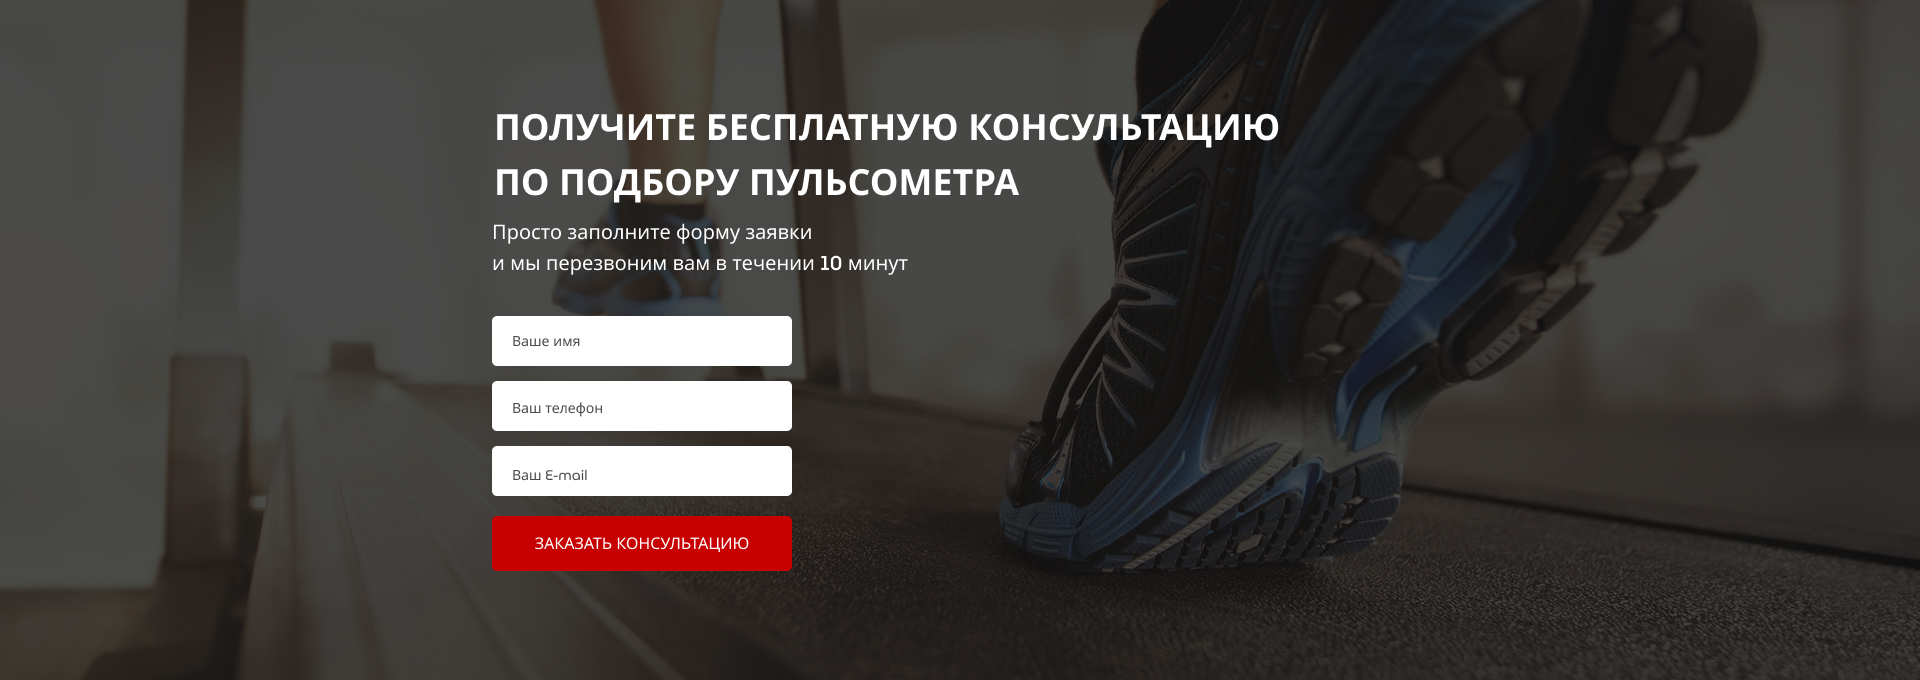
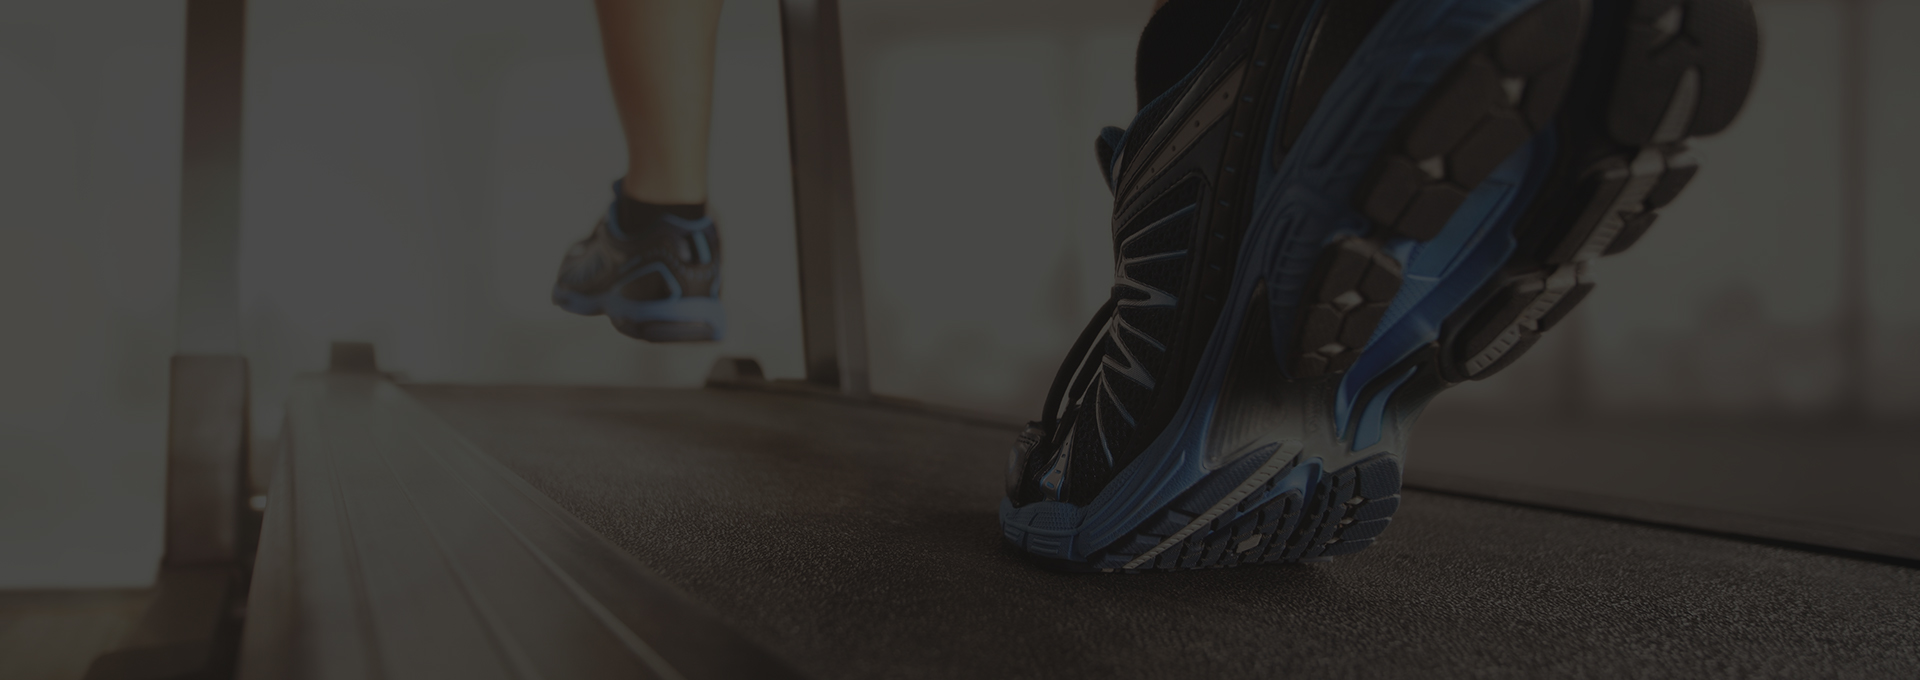
create & stylize consultation section

diff --git a/src/css/style.min.css b/src/css/style.min.css
@@ -1,1 +1,1 @@
-*{font-family:MuseoModerno,cursive;font-style:normal;margin:0}.container{max-width:950px;margin:0 auto}.main{background-image:url(../img/main/bg.png);background-position:50% 0;background-size:cover;background-repeat:no-repeat;padding:21px 0 93px}.main__body{display:flex;flex-direction:column;align-items:flex-end}.main__title{font-weight:700;font-size:42px;line-height:42px;text-transform:uppercase;color:#fff;margin-bottom:17px}.main__subtitle{font-weight:500;font-size:24px;line-height:24px;text-transform:uppercase;color:#fff;margin-bottom:60px}.main__icons{width:424px;display:flex;justify-content:space-between;margin-bottom:67px}.main__icon{width:105px;display:flex;flex-direction:column;align-items:center}.main__icon img{display:block;margin-bottom:20px}.main__icon p{font-weight:500;font-size:14px;line-height:14px;text-align:center;color:#fff}.main__link{font-weight:500;font-size:16px;line-height:25px;color:#fff}.main__link a{text-transform:uppercase;color:#fff}.main__link a:hover{text-decoration:none}.header{display:flex;justify-content:space-between;align-items:center;margin-bottom:91px}.header__logo{display:block}.header__text{font-weight:500;font-size:12px;line-height:12px;text-align:center;color:#fff}.header__text span{display:block;font-size:18px;line-height:29px;margin-top:7px}.header__contacts{display:flex;flex-direction:column;align-items:flex-end}.header__phone{display:block;font-weight:700;font-size:18px;line-height:18px;text-decoration:none;color:#fff;margin-bottom:4px}.button{width:153px;height:32px;font-weight:500;font-size:12px;line-height:19px;text-transform:uppercase;text-align:center;color:#fff;background-color:#c70101;border-radius:5px;border:none;cursor:pointer}.button_main{width:303px;height:54px;font-size:16px;line-height:25px;margin-bottom:10px}.advantages{background-color:#f6f6f6;padding:73px 0 65px}.advantages__title{font-weight:700;font-size:30px;line-height:30px;text-align:center;color:#0d0d0d;margin-bottom:60px}.advantages__body{display:flex;justify-content:space-between;margin:0 -20px}.advantages__column{margin:0 20px}.advantages__item{max-width:270px}.advantages__item img{display:block;margin:0 auto;margin-bottom:35px}.advantages__subtitle{font-weight:700;font-size:18px;line-height:29px;text-align:center;color:#0d0d0d;margin-bottom:20px}.advantages__descr{font-weight:300;font-size:14px;line-height:18px;text-align:center;color:#0d0d0d}.advantages__descr a{text-decoration:underline;color:red}.advantages__descr a:hover{text-decoration:none}@media(max-width:1200px){.container{max-width:100%;margin:0 auto;padding:0 40px}}@media(max-width:768px){.container{padding:0 30px}}@media(max-width:425px){.container{padding:0 20px}}@media(max-width:768px){.header{flex-wrap:wrap}.header__text{text-align:right;margin-bottom:10px}.header__contacts{flex:1 1 100%}.header__phone{margin-bottom:10px}}@media(max-width:576px){.header{flex-wrap:nowrap}.header__logo{flex:1}.header__logo img{width:90%}.header__text{display:none}.header__contacts{flex:0 1 auto}}@media(max-width:425px){.header{flex-direction:column;align-items:center}.header__logo{margin-bottom:10px}.header__contacts{align-items:center}}@media(max-width:768px){.main{background-position:100% 0}.main__body{align-items:center}.main__title{text-align:center;line-height:54px}.main__subtitle{text-align:center;line-height:36px}}@media(max-width:480px){.main__icons{width:100%;margin:0 -5px 67px -5px}.main__icon{margin:0 5px}}@media(max-width:425px){.main__title{font-size:34px;line-height:48px}.main__subtitle{font-size:22px;line-height:34px;margin-bottom:40px}.main__icons{flex-direction:column;align-items:center;margin:0 0 40px}.main__icon{margin:0 0 40px}.main__icon:last-child{margin-bottom:0}.main__icon img{margin-bottom:10px}}@media(max-width:425px){.button_main{width:100%}}@media(max-width:992px){.advantages__body{flex-direction:column;align-items:center;margin:0}.advantages__column{margin:0;margin-bottom:40px}.advantages__column:last-child{margin-bottom:0}.advantages__item{max-width:300px}}@media(max-width:425px){.advantages__title{font-size:28px;line-height:40px}}
+*{box-sizing:border-box;font-family:MuseoModerno,cursive;font-style:normal;margin:0;border:none}.container{max-width:950px;margin:0 auto}.main{background-image:url(../img/main/bg.png);background-position:50% 0;background-size:cover;background-repeat:no-repeat;padding:21px 0 93px}.main__body{display:flex;flex-direction:column;align-items:flex-end}.main__title{font-weight:700;font-size:42px;line-height:42px;text-transform:uppercase;color:#fff;margin-bottom:17px}.main__subtitle{font-weight:500;font-size:24px;line-height:24px;text-transform:uppercase;color:#fff;margin-bottom:60px}.main__icons{width:424px;display:flex;justify-content:space-between;margin-bottom:67px}.main__icon{width:105px;display:flex;flex-direction:column;align-items:center}.main__icon img{display:block;margin-bottom:20px}.main__icon p{font-weight:500;font-size:14px;line-height:14px;text-align:center;color:#fff}.main__link{font-weight:500;font-size:16px;line-height:25px;color:#fff}.main__link a{text-transform:uppercase;color:#fff}.main__link a:hover{text-decoration:none}.header{display:flex;justify-content:space-between;align-items:center;margin-bottom:91px}.header__logo{display:block}.header__text{font-weight:500;font-size:12px;line-height:12px;text-align:center;color:#fff}.header__text span{display:block;font-size:18px;line-height:29px;margin-top:7px}.header__contacts{display:flex;flex-direction:column;align-items:flex-end}.header__phone{display:block;font-weight:700;font-size:18px;line-height:18px;text-decoration:none;color:#fff;margin-bottom:4px}.button{width:153px;height:32px;font-weight:500;font-size:12px;line-height:19px;text-transform:uppercase;text-align:center;color:#fff;background-color:#c70101;border-radius:5px;border:none;cursor:pointer}.button_main{width:303px;height:54px;font-size:16px;line-height:25px;margin-bottom:10px}.button_submit{width:100%;height:58px;font-size:16px;line-height:25px}.advantages{background-color:#f6f6f6;padding:73px 0 65px}.advantages__title{margin-bottom:60px}.advantages__body{display:flex;justify-content:space-between;margin:0 -20px}.advantages__column{margin:0 20px}.advantages__item{max-width:270px}.advantages__item img{display:block;margin:0 auto;margin-bottom:35px}.advantages__subtitle{font-weight:700;font-size:18px;line-height:29px;text-align:center;color:#0d0d0d;margin-bottom:20px}.advantages__descr{font-weight:300;font-size:14px;line-height:18px;text-align:center;color:#0d0d0d}.advantages__descr a{text-decoration:underline;color:red}.advantages__descr a:hover{text-decoration:none}.title{font-weight:700;font-size:30px;line-height:30px;text-align:center;text-transform:uppercase;color:#0d0d0d}.title_left{font-size:36px;line-height:54px;text-align:left;color:#fff}.consultation{background-image:url(../img/consultation/bg.png);background-position:50% 0;background-size:cover;background-repeat:no-repeat;padding:100px 0 108px}.consultation__descr{font-weight:500;font-size:20px;line-height:30px;color:#fff;margin-top:8px}.consultation__form{margin-top:36px}.form{display:flex;flex-direction:column;width:303px}.form input{height:54px;font-weight:400;font-size:14px;line-height:66px;color:#4b4b4b;background-color:#fff;border-radius:5px;padding:0 21px;margin-bottom:12px}.form input:nth-child(3){margin-bottom:17px}@media(max-width:1200px){.container{max-width:100%;margin:0 auto;padding:0 40px}}@media(max-width:768px){.container{padding:0 30px}}@media(max-width:425px){.container{padding:0 20px}}@media(max-width:768px){.header{flex-wrap:wrap}.header__text{text-align:right;margin-bottom:10px}.header__contacts{flex:1 1 100%}.header__phone{margin-bottom:10px}}@media(max-width:576px){.header{flex-wrap:nowrap}.header__logo{flex:1}.header__logo img{width:90%}.header__text{display:none}.header__contacts{flex:0 1 auto}}@media(max-width:425px){.header{flex-direction:column;align-items:center}.header__logo{margin-bottom:10px}.header__contacts{align-items:center}}@media(max-width:768px){.main{background-position:100% 0}.main__body{align-items:center}.main__title{text-align:center;line-height:54px}.main__subtitle{text-align:center;line-height:36px}}@media(max-width:480px){.main__icons{width:100%;margin:0 -5px 67px -5px}.main__icon{margin:0 5px}}@media(max-width:425px){.main__title{font-size:34px;line-height:48px}.main__subtitle{font-size:22px;line-height:34px;margin-bottom:40px}.main__icons{flex-direction:column;align-items:center;margin:0 0 40px}.main__icon{margin:0 0 40px}.main__icon:last-child{margin-bottom:0}.main__icon img{margin-bottom:10px}}@media(max-width:425px){.button_main{width:100%}}@media(max-width:992px){.advantages__body{flex-direction:column;align-items:center;margin:0}.advantages__column{margin:0;margin-bottom:40px}.advantages__column:last-child{margin-bottom:0}.advantages__item{max-width:300px}}@media(max-width:425px){.advantages__title{font-size:28px;line-height:40px}}@media(max-width:992px){.title_left{text-align:center}}@media(max-width:768px){.title_left{font-size:30px;line-height:43px}.title_left br{display:none}}@media(max-width:992px){.consultation__descr{text-align:center}.consultation__form{display:flex;justify-content:center}}

diff --git a/src/index.html b/src/index.html
@@ -52,7 +52,7 @@
     </section>
     <section class="advantages">
         <div class="container">
-            <h2 class="advantages__title">НАШИ ПРЕИМУЩЕСТВА</h2>
+            <h2 class="title">НАШИ ПРЕИМУЩЕСТВА</h2>
             <div class="advantages__body">
                 <div class="advantages__column">
                     <div class="advantages__item">
@@ -75,6 +75,20 @@
                         <p class="advantages__descr">Помогаем с обучением правильной технике бега! Дружим с крупнейшей школой бега в России - <a href="#">I LOVE RUNNING.</a></p>
                     </div>
                 </div>
+            </div>
+        </div>
+    </section>
+    <section class="consultation">
+        <div class="container">
+            <h2 class="title title_left">Получите бесплатную консультацию <br>по подбору пульсометра</h2>
+            <h3 class="consultation__descr">Просто заполните форму заявки <br>и мы перезвоним вам в течение 10 минут</h3>
+            <div class="consultation__form">
+                <form action="#" class="form">
+                    <input type="text" name="name" placeholder="Ваше имя" required>
+                    <input type="number" name="phone" placeholder="Ваш телефон" required>
+                    <input type="email" name="email" placeholder="Ваш E-mail" required>
+                    <button type="submit" class="button button_submit">заказать кОНСУЛЬТАЦИЮ</button>
+                </form>
             </div>
         </div>
     </section>

diff --git a/src/scss/style.scss b/src/scss/style.scss
@@ -3,9 +3,11 @@
 /*font-family: 'MuseoModerno', cursive;*/
 
 * {
+    box-sizing: border-box;
     font-family: 'MuseoModerno', cursive;
     font-style: normal;
     margin: 0;
+    border: none;
 }
 
 .container {
@@ -17,5 +19,8 @@
 @import 'sections/header';
 @import 'sections/buttons';
 @import 'sections/advantages';
+@import 'sections/titles';
+@import 'sections/consultation';
+@import 'sections/forms';
 
 @import 'media/media';

diff --git a/src/scss/sections/_forms.scss b/src/scss/sections/_forms.scss
@@ -1,0 +1,20 @@
+.form {
+    display: flex;
+    flex-direction: column;
+    width: 303px;
+
+    input {
+        height: 54px;
+        font-weight: 400;
+        font-size: 14px;
+        line-height: 66px;
+        color: #4B4B4B;
+        background-color: $light;
+        border-radius: 5px;
+        padding: 0 21px;
+        margin-bottom: 12px;
+        &:nth-child(3) {
+            margin-bottom: 17px;
+        }
+    }
+}

diff --git a/src/scss/sections/_consultation.scss b/src/scss/sections/_consultation.scss
@@ -1,0 +1,18 @@
+.consultation {
+    background-image: url('../img/consultation/bg.png');
+    background-position: 50% 0%;
+    background-size: cover;
+    background-repeat: no-repeat;
+    padding: 100px 0 108px;
+
+    &__descr {
+        font-weight: 500;
+        font-size: 20px;
+        line-height: 30px;
+        color: $light;
+        margin-top: 8px;
+    }
+    &__form {
+        margin-top: 36px;
+    }
+}

diff --git a/src/scss/media/_media_titles.scss b/src/scss/media/_media_titles.scss
@@ -1,0 +1,16 @@
+.title {
+    @media (max-width: $md2) {
+        &_left {
+            text-align: center;
+        }
+    }
+    @media (max-width: $md3) {
+        &_left {
+            font-size: 30px;
+            line-height: 43px;
+            br {
+                display: none;
+            }
+        }
+    }
+}

diff --git a/src/scss/sections/_titles.scss b/src/scss/sections/_titles.scss
@@ -1,0 +1,15 @@
+.title {
+    font-weight: 700;
+    font-size: 30px;
+    line-height: 30px;
+    text-align: center;
+    text-transform: uppercase;
+    color: $main;
+
+    &_left {
+        font-size: 36px;
+        line-height: 54px;
+        text-align: left;
+        color: $light;
+    }
+}

diff --git a/src/scss/sections/_advantages.scss b/src/scss/sections/_advantages.scss
@@ -3,11 +3,7 @@
     padding: 73px 0 65px;
     
     &__title {
-        font-weight: 700;
-        font-size: 30px;
-        line-height: 30px;
-        text-align: center;
-        color: $main;
+        
         margin-bottom: 60px;
     }
     &__body {

diff --git a/src/scss/media/_media_consultation.scss b/src/scss/media/_media_consultation.scss
@@ -1,0 +1,11 @@
+.consultation {
+    @media (max-width: $md2) {
+        &__descr {
+            text-align: center;
+        }
+        &__form {
+            display: flex;
+            justify-content: center;
+        }
+    }
+}

diff --git a/src/scss/sections/_buttons.scss b/src/scss/sections/_buttons.scss
@@ -19,4 +19,10 @@
         line-height: 25px;
         margin-bottom: 10px;
     }
+    &_submit {
+        width: 100%;
+        height: 58px;
+        font-size: 16px;
+        line-height: 25px;
+    }
 }

diff --git a/src/scss/media/_media.scss b/src/scss/media/_media.scss
@@ -20,3 +20,5 @@
 @import '_media_main.scss';
 @import '_media_buttons.scss';
 @import '_media_advantages.scss';
+@import '_media_titles.scss';
+@import '_media_consultation.scss';
